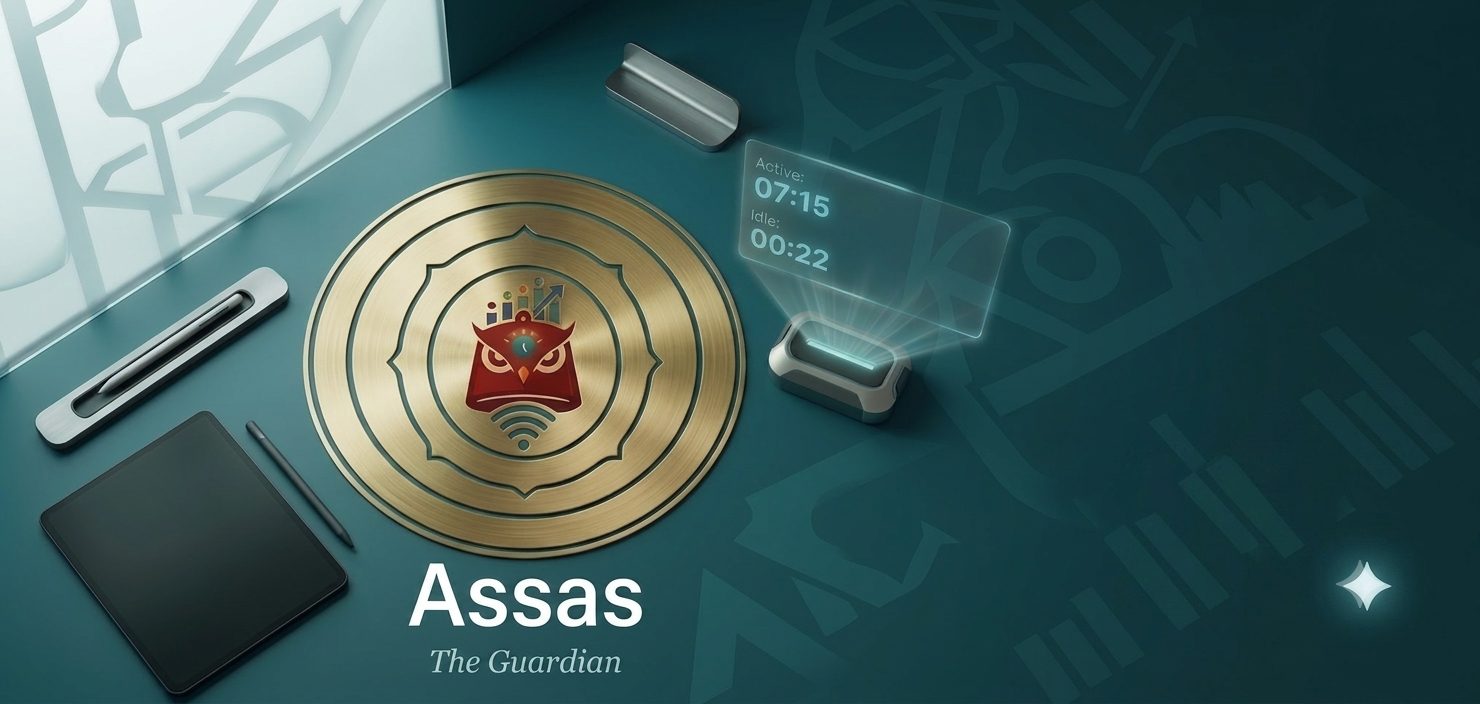
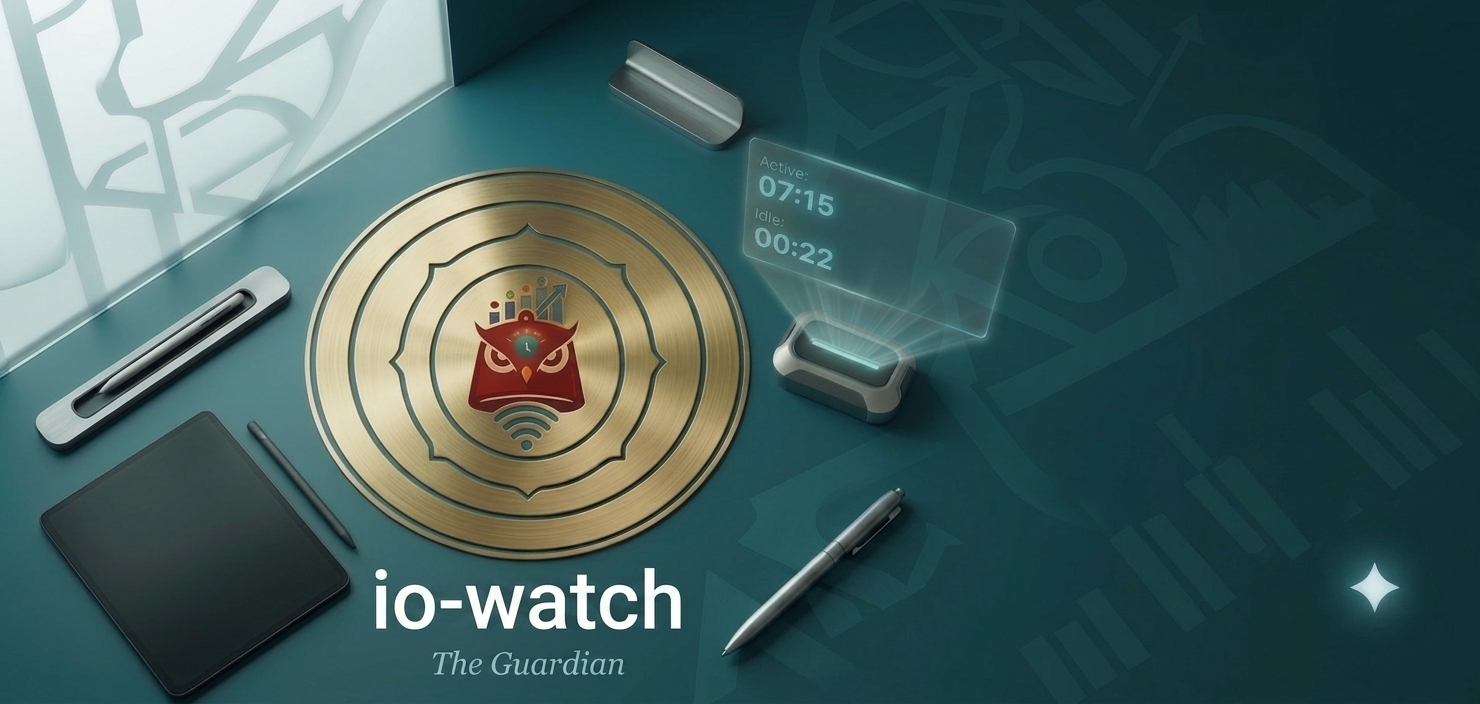
fix app name

diff --git a/agent/index.html b/agent/index.html
@@ -3,7 +3,7 @@
 <head>
   <meta charset="UTF-8" />
   <meta name="viewport" content="width=device-width, initial-scale=1.0" />
-  <title>The Guardian</title>
+  <title>IO-Watch</title>
   <style>
     *, *::before, *::after { box-sizing: border-box; margin: 0; padding: 0; }
 
@@ -251,8 +251,8 @@
   <div id="pairing-screen" class="screen active">
     <div class="pairing-card">
       <div class="pairing-logo">
-        <img src="logo.png" alt="The Guardian" class="logo-icon" />
-        <h1>The Guardian</h1>
+        <img src="logo.png" alt="IO-Watch" class="logo-icon" />
+        <h1>IO-Watch</h1>
         <div class="subtitle">Pair your device with your account</div>
       </div>
 
@@ -292,8 +292,8 @@
   <div id="dashboard-screen" class="screen">
     <div class="dash-topbar">
       <div class="dash-topbar-left">
-        <img src="logo.png" alt="The Guardian" class="logo-sm" />
-        <h2>The Guardian</h2>
+        <img src="logo.png" alt="IO-Watch" class="logo-sm" />
+        <h2>IO-Watch</h2>
       </div>
       <div class="dash-topbar-right">
         <div class="trust-badge">

diff --git a/frontend/src/app/shared/layouts/dashboard-layout/dashboard-layout.component.html b/frontend/src/app/shared/layouts/dashboard-layout/dashboard-layout.component.html
@@ -13,10 +13,10 @@
   >
     <div class="sidebar-header">
       <div class="brand" [class.collapsed]="sidebarCollapsed()">
-        <img src="logo.png" alt="Assas" class="brand-logo" />
+        <img src="logo.png" alt="IO-Watch" class="brand-logo" />
         @if (!sidebarCollapsed()) {
           <div class="brand-text-wrap">
-            <span class="brand-name">Assas</span>
+            <span class="brand-name">IO-Watch</span>
             <span class="brand-sub">The Guardian</span>
           </div>
         }

diff --git a/frontend/src/styles/_design-tokens.scss b/frontend/src/styles/_design-tokens.scss
@@ -1,6 +1,6 @@
-// Design tokens for Assas — The Guardian.
+// Design tokens for IO-Watch — The Guardian.
 //
-// Palette derived from the Assas owl/chechia logo:
+// Palette derived from the IO-Watch owl/chechia logo:
 //   Chechia Red    #A31D1D  — primary actions, authority
 //   Mosaic Teal    #138D9E  — active states, links, highlights
 //   Deep Navy      #0B4A5A  — text, sidebars, headers

diff --git a/frontend/src/app/features/auth/pages/login-page.component.ts b/frontend/src/app/features/auth/pages/login-page.component.ts
@@ -15,7 +15,7 @@ import { AutofocusDirective } from '../../../shared/directives/autofocus.directi
     <form class="auth-form" [formGroup]="form" (ngSubmit)="submit()" novalidate>
       <div class="auth-copy">
         <h1>Sign in</h1>
-        <p>Access your Assas dashboard.</p>
+        <p>Access your IO-Watch dashboard.</p>
       </div>
 
       <div class="auth-field">

diff --git a/frontend/src/index.html b/frontend/src/index.html
@@ -2,7 +2,7 @@
 <html lang="en">
   <head>
     <meta charset="utf-8" />
-    <title>Assas — The Guardian</title>
+    <title>IO-Watch</title>
     <base href="/" />
     <meta name="viewport" content="width=device-width, initial-scale=1" />
     <link rel="preconnect" href="https://fonts.googleapis.com" />

diff --git a/agent/main.js b/agent/main.js
@@ -294,7 +294,7 @@ function createWindow() {
     width: 520,
     height: 520,
     resizable: false,
-    title: 'The Guardian',
+    title: 'IO-Watch',
     icon: path.join(__dirname, 'logo.png'),
     webPreferences: {
       contextIsolation: true,

diff --git a/frontend/src/environments/environment.prod.ts b/frontend/src/environments/environment.prod.ts
@@ -1,6 +1,6 @@
 export const environment = {
   production: true,
-  appName: 'Assas',
+  appName: 'IO-Watch',
   appVersion: '1.0.0',
   apiBasePath: '/api',
   // Replace with the deployed API origin before shipping the production build.

diff --git a/frontend/src/environments/environment.ts b/frontend/src/environments/environment.ts
@@ -1,6 +1,6 @@
 export const environment = {
   production: false,
-  appName: 'Assas',
+  appName: 'IO-Watch',
   appVersion: '1.0.0',
   apiBasePath: '/api',
   apiBaseUrl: 'http://localhost:1337',

diff --git a/README.md b/README.md
@@ -1,11 +1,11 @@
-# Remote Work Supervisor — Assas
+# Remote Work Supervisor — IO-Watch
 
 A full-stack remote-work monitoring and productivity platform. Employees run a lightweight **desktop agent** that tracks work sessions, breaks, and project activity in real time; **HR/Admin** get a live operational dashboard to manage teams, projects, overtime, alerts, and trusted devices — all built on a modern, role-aware stack.
 
 ```
 ┌───────────────────────────┐        ┌──────────────────────────┐
 │  Desktop Agent (Electron) │        │  Angular Web App (SPA)   │
-│  The Guardian             │        │  Assas                   │
+│  The Guardian             │        │  IO-Watch                │
 │  - input/activity tracking│        │  Employee · HR · Admin   │
 │  - screenshot analysis    │        │  - dashboards            │
 │  - heartbeats / pairing   │        │  - projects / teams      │
@@ -201,7 +201,7 @@ npm start              # launches the Electron app
 npm run dist           # electron-builder → agent/release/*.exe
 ```
 
-Install the produced `Remote Work Supervisor Agent Setup 1.0.0.exe`, then:
+Install the produced `IO-Watch Setup 1.0.0.exe`, then:
 
 1. In the web app, open **Desktop Agent** (Employee) → **Generate Pairing Code**.
 2. In the agent window, enter the code and click **Pair**.
@@ -284,7 +284,7 @@ For local testing only, set short values in `agent/.env` (e.g. `AGENT_AUTO_BREAK
 
 ```powershell
 $env:AGENT_AUTO_BREAK_THRESHOLD_MS = "60000"
-& "Remote Work Supervisor Agent.exe"
+& "IO-Watch.exe"
 ```
 
 ---
@@ -389,4 +389,4 @@ See [`docs/auth-security-notes.md`](docs/auth-security-notes.md) for the full au
 
 ---
 
-© 2026 Assas. All rights reserved.
+© 2026 IO-Watch. All rights reserved.

diff --git a/docs/production-readiness-audit.md b/docs/production-readiness-audit.md
@@ -38,14 +38,14 @@ Covers: hardcoded values, env-var coverage, repository hygiene, and packaging re
 - `src/app/core/constants/app.constants.ts` hardcodes:
   - `API_BASE_URL = 'http://localhost:1337'`
   - `API_BASE_PATH = '/api'`
-  - `APP_NAME = 'Assas'`
+  - `APP_NAME = 'IO-Watch'`
 - `proxy.conf.json` hardcodes `http://localhost:1337` (dev-only, fine to keep).
 - **No app version constant** anywhere in the frontend.
 
 ### Branding (currently hardcoded, acceptable for single-product)
-- `src/index.html` — `<title>Assas — The Guardian</title>`
-- `shared/layouts/dashboard-layout/dashboard-layout.component.html` — logo + `Assas`
-- `features/auth/pages/login-page.component.ts` — "Access your Assas dashboard."
+- `src/index.html` — `<title>IO-Watch</title>`
+- `shared/layouts/dashboard-layout/dashboard-layout.component.html` — logo + `IO-Watch`
+- `features/auth/pages/login-page.component.ts` — "Access your IO-Watch dashboard."
 - `styles/_design-tokens.scss` — comments only (cosmetic)
 
 ## 3. Desktop Agent (Electron, `agent/`)

diff --git a/docs/production-readiness-report.md b/docs/production-readiness-report.md
@@ -52,7 +52,7 @@ timer env-configurable (documented in `agent/.env.example`):
 
 ## 6. Electron Builder packaging
 - New `agent/electron-builder.yml`: `productName: Remote Work Supervisor Agent`,
-  `appId: com.assas.remote-work-supervisor`, x64 NSIS assisted installer
+   `appId: com.io-watch.remote-work-supervisor`, x64 NSIS assisted installer
   (install-dir choice, desktop + start-menu shortcuts), `asar` with unpacked native
   modules, `assets/icon.ico` (multi-size 16–256 px generated from the logo).
 - `npmRebuild: false` — keytar (N-API v3) and uiohook-napi (N-API) ship ABI-stable
@@ -60,7 +60,7 @@ timer env-configurable (documented in `agent/.env.example`):
 
 ## 7. Installer output
 Built successfully:
-- `agent/release/Remote Work Supervisor Agent Setup 1.0.0.exe` (96 MB)
+- `agent/release/IO-Watch Setup 1.0.0.exe` (96 MB)
 - Verified `app.asar` contains `main.js`, `preload.js`, `src/api/api.js`,
   `src/config/config.js`; native modules unpacked under `app.asar.unpacked`.
 
